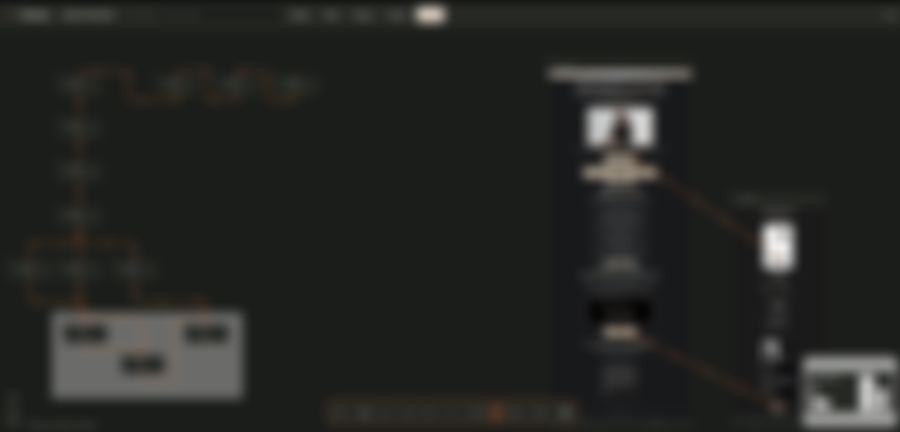
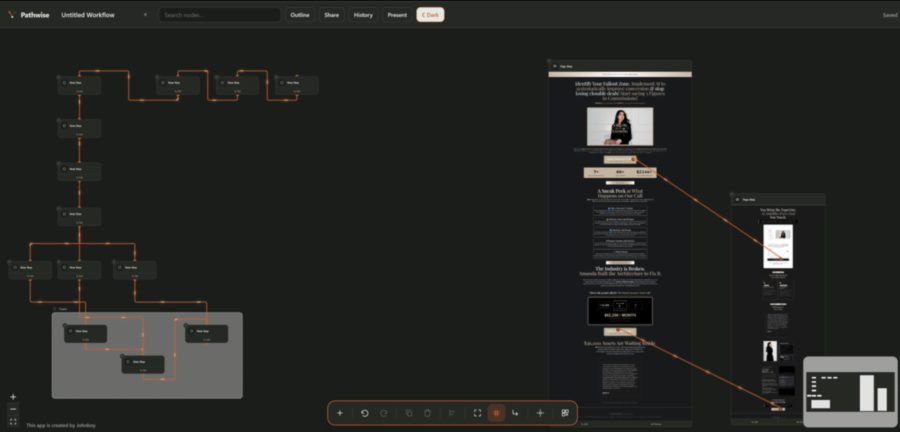
Add Compass/Command to Apps built stat, sharpen Automations card background
Apps built modal and stat count now reflect Pathwise, Compass, and Command (3 real entries, each with its own icon) instead of a hardcoded 3 with placeholders. The Complex Automation Built card's background image is far less blurred and more visible now; the number/label sit on their own dark blurred backdrop chip so they still stand out against the clearer image.

diff --git a/src/components/panels/AboutPanel.tsx b/src/components/panels/AboutPanel.tsx
@@ -21,6 +21,8 @@ import {
   IconX,
   IconArrowUpRight,
   IconRoute,
+  IconCompass,
+  IconCommand,
   IconBrandLinkedin,
   IconBrandInstagram,
   IconBrandFacebook,
@@ -113,6 +115,17 @@ const apps = [
     name: "Pathwise",
     description:
       "A dashboard-style workflow mapping app that helps plan a journey from goal to milestone, with visual node maps and hotspots.",
+    icon: IconRoute,
+  },
+  {
+    name: "Compass",
+    description: "A dashboard for tracking client engagements end to end, from first call to delivered system.",
+    icon: IconCompass,
+  },
+  {
+    name: "Command",
+    description: "A central place to monitor and manage automations running across client accounts.",
+    icon: IconCommand,
   },
 ];
 
@@ -469,7 +482,7 @@ export default function AboutPanel() {
                 color: "transparent",
               }}
             >
-              3
+              {apps.length}
             </p>
             <p className="mt-1 text-[11px]" style={{ color: "var(--text-muted)" }}>
               Apps built
@@ -730,31 +743,40 @@ export default function AboutPanel() {
             src="/automation-bg-pathwise.jpg"
             alt=""
             fill
-            className="object-cover opacity-40"
-            style={{ filter: "blur(6px)" }}
+            className="object-cover opacity-70"
+            style={{ filter: "blur(1px)" }}
             sizes="300px"
           />
           <div
             className="pointer-events-none absolute inset-0"
             style={{
-              background: "radial-gradient(circle at center, rgba(216,90,48,0.35) 0%, rgba(28,26,23,0.55) 65%, rgba(20,19,17,0.75) 100%)",
+              background: "radial-gradient(circle at center, rgba(216,90,48,0.2) 0%, rgba(28,26,23,0.35) 65%, rgba(20,19,17,0.55) 100%)",
             }}
           />
           <ClickHint />
-          <p
-            className="relative text-4xl font-medium"
+          <div
+            className="relative flex flex-col items-center rounded-[18px] px-6 py-3"
             style={{
-              background: "linear-gradient(135deg, #EF9F27, #D85A30)",
-              WebkitBackgroundClip: "text",
-              backgroundClip: "text",
-              color: "transparent",
+              background: "rgba(20,19,17,0.55)",
+              backdropFilter: "blur(10px)",
+              WebkitBackdropFilter: "blur(10px)",
             }}
           >
-            {automationsTarget}
-          </p>
-          <p className="relative mt-1 text-[11px]" style={{ color: "var(--text-muted)" }}>
-            Complex Automation Built
-          </p>
+            <p
+              className="text-4xl font-medium"
+              style={{
+                background: "linear-gradient(135deg, #EF9F27, #D85A30)",
+                WebkitBackgroundClip: "text",
+                backgroundClip: "text",
+                color: "transparent",
+              }}
+            >
+              {automationsTarget}
+            </p>
+            <p className="mt-1 text-[11px]" style={{ color: "var(--text-primary)" }}>
+              Complex Automation Built
+            </p>
+          </div>
         </Card>
       </div>
 
@@ -902,23 +924,26 @@ export default function AboutPanel() {
               </button>
             </div>
             <div className="grid grid-cols-2 gap-4 lg:grid-cols-3">
-              {apps.map((app) => (
-                <div key={app.name} className="flex flex-col items-center text-center">
-                  <div
-                    className="mb-3 flex h-16 w-16 items-center justify-center rounded-[16px]"
-                    style={{ background: "linear-gradient(135deg, #EF9F27, #D85A30)", color: "var(--btn-text-on-gradient)" }}
-                  >
-                    <IconRoute size={26} />
+              {apps.map((app) => {
+                const AppIcon = app.icon;
+                return (
+                  <div key={app.name} className="flex flex-col items-center text-center">
+                    <div
+                      className="mb-3 flex h-16 w-16 items-center justify-center rounded-[16px]"
+                      style={{ background: "linear-gradient(135deg, #EF9F27, #D85A30)", color: "var(--btn-text-on-gradient)" }}
+                    >
+                      <AppIcon size={26} />
+                    </div>
+                    <p className="mb-1.5 text-xs font-medium" style={{ color: "var(--text-primary)" }}>
+                      {app.name}
+                    </p>
+                    <p className="text-[11px] leading-relaxed" style={{ color: "var(--text-tertiary)" }}>
+                      {app.description}
+                    </p>
                   </div>
-                  <p className="mb-1.5 text-xs font-medium" style={{ color: "var(--text-primary)" }}>
-                    {app.name}
-                  </p>
-                  <p className="text-[11px] leading-relaxed" style={{ color: "var(--text-tertiary)" }}>
-                    {app.description}
-                  </p>
-                </div>
-              ))}
-              {Array.from({ length: 3 - apps.length }).map((_, i) => (
+                );
+              })}
+              {Array.from({ length: Math.max(0, 3 - apps.length) }).map((_, i) => (
                 <div
                   key={i}
                   className="flex flex-col items-center justify-center gap-2 rounded-[16px] border border-dashed p-4 text-center"